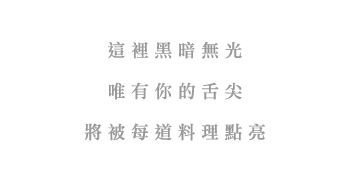
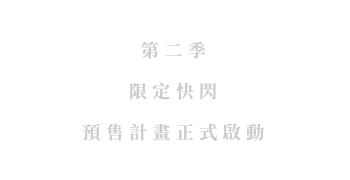
update route && fix

Changed region(s): [[0.2292, 0.6667, 0.7736, 0.7778], [0.3152, 0.2222, 0.6877, 0.3333], [0.3152, 0.4444, 0.6877, 0.5556]]

diff --git a/public/dark2/style/css/print.css b/public/dark2/style/css/print.css
@@ -6,6 +6,7 @@ a:hover { color: #cbcbcb; }
 .seasontwo img { width: 100%; }
 
 .main-logo { position: relative; }
+.main-logo img { max-width: 107px; }
 
 .main-slogan { padding-top: 15vh; }
 .main-slogan i { margin-top: 90px; color: #a47c52; font-size: 24px; opacity: 0; transition: all 0.5s; }
@@ -18,7 +19,7 @@ a:hover { color: #cbcbcb; }
 .rules-box p:nth-child(2) { margin-top: 45px; }
 
 .new-about { margin-top: 350px; color: #cbcbcb; opacity: 0; transition: 1s all; text-align: center; padding: 20px; }
-@media (max-width: 776px) { .new-about { margin-top: 150px; } }
+@media (max-width: 776px) { .new-about { margin-top: 150px; opacity: 1; } }
 .new-about p { font-size: 16px; line-height: 1.55em; letter-spacing: 1px; }
 .new-about h1 { font-size: 18px; letter-spacing: 2.5px; line-height: 1.55em; margin-bottom: 60px; }
 .new-about .pre-order-info { margin: auto; max-width: 880px; }
@@ -27,7 +28,9 @@ a:hover { color: #cbcbcb; }
 .new-about .progress-bar-box .bar-box { position: relative; height: 35px; }
 .new-about .progress-bar-box .bar-box:after, .new-about .progress-bar-box .bar-box:before { position: absolute; bottom: -45px; width: 120px; color: #cbcbcb; font-size: 14px; }
 .new-about .progress-bar-box .bar-box:after { content: "預售開始"; left: 0%; margin-left: -68px; }
+@media (max-width: 776px) { .new-about .progress-bar-box .bar-box:after { margin-left: -7px; text-align: left; } }
 .new-about .progress-bar-box .bar-box:before { content: '目標 3000張'; right: 0%; margin-right: -68px; }
+@media (max-width: 776px) { .new-about .progress-bar-box .bar-box:before { margin-right: -7px; text-align: right; } }
 .new-about .progress-bar-box .bar { position: absolute; top: 0; left: 0; height: 100%; width: 45%; background: #a47c52; }
 .new-about .info-box { margin-top: 120px; text-align: center; padding-bottom: 120px; }
 .new-about .info-box h1 { color: #cbcbcb; margin-bottom: 25px; font-size: 18px; }
@@ -54,6 +57,8 @@ a:hover { color: #cbcbcb; }
 .timeline .important p, .timeline .important .date { color: #cbcbcb; }
 
 .mask-box { position: absolute; top: 0; left: 0; height: 100vh; width: 100%; z-index: 1001; }
+@media (max-width: 776px) { .mask-box { overflow: auto; } }
+.mask-box .fa-angle-down { cursor: pointer; }
 
 .active .new-about { opacity: 1; }
 .active .mask-box { overflow: auto; padding-bottom: 5px; }
@@ -82,10 +87,15 @@ a:hover { color: #cbcbcb; }
 .strong-words { color: #a47c52; }
 
 .pre-order-section { text-align: center; color: #cbcbcb; }
+@media (max-width: 776px) { .pre-order-section { padding-top: 45px; } }
+.pre-order-section h4 { margin: 65px auto 45px; }
 .pre-order-section p { line-height: 1.75em; letter-spacing: 1px; }
 .pre-order-section .pre-order-box { max-width: 720px; margin: 45px auto; }
 @media (max-width: 776px) { .pre-order-section .pre-order-box { margin-bottom: 0px; } }
+.pre-order-section .food-box { max-width: 1080px; }
 @media (max-width: 776px) { .pre-order-section .row { padding: 25px; } }
+.pre-order-section .row .col-md-4 { margin: 20px auto; }
+.pre-order-section .row .col-md-6 { margin: 20px auto; }
 .pre-order-section .row .col-md-6 > a div { position: relative; }
 .pre-order-section .row .col-md-6 > a div > img { filter: brightness(100%); transition: 0.5s all; }
 .pre-order-section .row .col-md-6 > a div > img:hover { filter: brightness(85%); }

diff --git a/public/dark2/style/scss/_seasontwo.scss b/public/dark2/style/scss/_seasontwo.scss
@@ -22,6 +22,9 @@ a{
 
 .main-logo{
     position: relative;
+    img{
+        max-width: 107px;
+    }
 }
 
 .main-slogan{
@@ -66,6 +69,7 @@ a{
     
     @media(max-width:$xs){
         margin-top: 150px;
+        opacity: 1;
     }
     
     p{
@@ -109,13 +113,21 @@ a{
                 content: "預售開始";
                 left: 0%;
                 margin-left: -68px;
+
+                @media(max-width:$xs){
+                    margin-left: -7px;
+                    text-align: left;
+                }
             }
             
             &:before{
                 content: '目標 3000張';
                 right: 0%;
                 margin-right: -68px;
-                
+                @media(max-width:$xs){
+                    margin-right: -7px;
+                    text-align: right;
+                }
             }
         }
         
@@ -269,6 +281,13 @@ a{
     height: 100vh;
     width: 100%;
     z-index: 1001;
+    @media(max-width:$xs){
+        overflow: auto;
+    }
+    
+    .fa-angle-down{
+        cursor: pointer;
+    }
 }
 
 .active{
@@ -376,6 +395,14 @@ a{
     text-align: center;
     color: $font-color;
     
+    @media(max-width:$xs){
+        padding-top: 45px;
+    }
+    
+    h4{
+        margin: 65px auto 45px;
+    }
+    
     p{
         line-height: 1.75em;
         letter-spacing: 1px;
@@ -388,11 +415,21 @@ a{
             margin-bottom: 0px;
         }
     }
+    
+    .food-box {
+	    max-width: 1080px;
+    }
+    
     .row{
         @media(max-width:$xs){
             padding: 25px;
         }
+        
+        .col-md-4{
+            margin: 20px auto;
+        }
         .col-md-6{
+            margin: 20px auto;
             >a div{
                 position: relative;
              

diff --git a/public/dark2/js/main.js b/public/dark2/js/main.js
@@ -70,7 +70,13 @@ startValue = 1;
 // landing fn
 function ShowBg(){
     var i = startValue,
+        _w = $(window).width(),
         showItem = ".show-"+i;
+    
+    if(_w < 776 ){
+        i=5;
+    }
+    
     $(showItem).addClass('showup');
     startValue++;
     if (i>4){
@@ -93,7 +99,16 @@ $(document).ready(function(){
         $body.animate({
             scrollTop: $(wheretoGo).offset().top
         }, 700);
-    })
+    });
+    $('.mask-box .fa-angle-down').click(function(){
+        var wheretoGo = $('.new-about'),
+            $body = $('.mask-box');
+
+        $body.animate({
+            scrollTop: $(wheretoGo).offset().top - 80
+        }, 700);
+    });
+
 })
 
 
@@ -106,5 +121,13 @@ $(document).ready(function(){
         
         return false;
     });
-})
+});
 
+
+ (function(i,s,o,g,r,a,m){i['GoogleAnalyticsObject']=r;i[r]=i[r]||function(){
+  (i[r].q=i[r].q||[]).push(arguments)},i[r].l=1*new Date();a=s.createElement(o),
+  m=s.getElementsByTagName(o)[0];a.async=1;a.src=g;m.parentNode.insertBefore(a,m)
+  })(window,document,'script','https://www.google-analytics.com/analytics.js','ga');
+
+  ga('create', 'UA-75329055-2', 'auto');
+  ga('send', 'pageview');

diff --git a/resources/views/Dark2/frontend/_header.blade.php b/resources/views/Dark2/frontend/_header.blade.php
@@ -1,4 +1,4 @@
-    <title>Dinner In The Dark</title>
+    <title>Dining In The Dark 2</title>
     <meta charset="utf-8">
     <meta name="viewport" content="target-densitydpi=device-dpi; width=device-width; initial-scale=1.0; maximum-scale=1.0; user-scalable=0;">
     <link rel="stylesheet" href="/dark2/stylesheets/screen.css">
@@ -15,11 +15,11 @@
     <script src="/dark2/js/main.js"></script>
     <meta name="csrf-token" content="{{ csrf_token() }}">
     <link href='//fonts.googleapis.com/css?family=PT+Serif:400' rel='stylesheet' type='text/css'><script type="text/javascript">var _jf = _jf || [];_jf.push(['p','42509']);_jf.push(['_setFont','datm7','css','.datm7']);_jf.push(['_setFont','datm7','alias','datm7']);_jf.push(['_setFont','datm7','english','PT Serif']);_jf.push(['_setFont','datm7','weight',700]);(function(f,q,c,h,e,i,r,d){var k=f._jf;if(k.constructor===Object){return}var l,t=q.getElementsByTagName("html")[0],a=function(u){for(var v in k){if(k[v][0]==u){if(false===k[v][1].call(k)){break}}}},j=/\S+/g,o=/[\t\r\n\f]/g,b=/^[\s\uFEFF\xA0]+|[\s\uFEFF\xA0]+$/g,g="".trim,s=g&&!g.call("\uFEFF\xA0")?function(u){return u==null?"":g.call(u)}:function(u){return u==null?"":(u+"").replace(b,"")},m=function(y){var w,z,v,u,x=typeof y==="string"&&y;if(x){w=(y||"").match(j)||[];z=t[c]?(" "+t[c]+" ").replace(o," "):" ";if(z){u=0;while((v=w[u++])){if(z.indexOf(" "+v+" ")<0){z+=v+" "}}t[c]=s(z)}}},p=function(y){var w,z,v,u,x=arguments.length===0||typeof y==="string"&&y;if(x){w=(y||"").match(j)||[];z=t[c]?(" "+t[c]+" ").replace(o," "):"";if(z){u=0;while((v=w[u++])){while(z.indexOf(" "+v+" ")>=0){z=z.replace(" "+v+" "," ")}}t[c]=y?s(z):""}}},n;k.push(["_eventActived",function(){p(h);m(e)}]);k.push(["_eventInactived",function(){p(h);m(i)}]);k.addScript=n=function(u,A,w,C,E,B){E=E||function(){};B=B||function(){};var x=q.createElement("script"),z=q.getElementsByTagName("script")[0],v,y=false,D=function(){x.src="";x.onerror=x.onload=x.onreadystatechange=null;x.parentNode.removeChild(x);x=null;a("_eventInactived");B()};if(C){v=setTimeout(function(){D()},C)}x.type=A||"text/javascript";x.async=w;x.onload=x.onreadystatechange=function(G,F){if(!y&&(!x.readyState||/loaded|complete/.test(x.readyState))){y=true;if(C){clearTimeout(v)}x.src="";x.onerror=x.onload=x.onreadystatechange=null;x.parentNode.removeChild(x);x=null;if(!F){setTimeout(function(){E()},200)}}};x.onerror=function(H,G,F){if(C){clearTimeout(v)}D();return true};x.src=u;z.parentNode.insertBefore(x,z)};a("_eventPreload");m(h);n(r,"text/javascript",false,3000)})(this,this.document,"className","jf-loading","jf-active","jf-inactive","//d3gc6cgx8oosp4.cloudfront.net/js/stable/v/4.9.8/id/180297678342");</script>
-    <meta property="og:title" content="無光晚餐 DINING IN THE DARK" />
-    <meta property="og:description" content="這裡黑暗無光，唯有你的舌尖，將被每道料理點亮。" />
+    <meta property="og:title" content="無光晚餐2 DINING IN THE DARK 2" />
+    <meta property="og:description" content="第二季限定快閃，預售計畫正式啟動 這裏黑暗無光，唯有你的舌尖，將被每道料理點亮" />
     <meta property="og:url" content="https://{{ $_SERVER['HTTP_HOST'] }}{{ $_SERVER['REQUEST_URI'] }}" />
-    <meta property="og:site_name" content="無光晚餐 DINING IN THE DARK" />
+    <meta property="og:site_name" content="無光晚餐2 DINING IN THE DARK 2" />
     <meta property="og:image" content="https://www.surpriselab.com.tw/images/share.jpg" />
     <meta property="og:type" content="website" />
-    <meta name="description" content="這裡黑暗無光，唯有你的舌尖，將被每道料理點亮。">
+    <meta name="description" content="第二季限定快閃，預售計畫正式啟動 這裏黑暗無光，唯有你的舌尖，將被每道料理點亮">
     <meta name="keywords" content="無光晚餐、無光餐廳、約會餐廳、黑暗餐廳、黑暗體驗">

diff --git a/resources/views/Dark2/frontend/pre-order.blade.php b/resources/views/Dark2/frontend/pre-order.blade.php
@@ -46,10 +46,18 @@
             </div>
             <div class="season-two-about pre-order-section">
                 <p>
-                    選擇您想要預購的商品 ⬇
+                    請點選商品前往付款 ⬇
                 </p>
                 <div class="pre-order-box">
                     <div class="row">
+                        <div class="col-md-6">
+                            <a href="https://surpriselab.backme.tw/checkout/820/4380?locale=zh-TW">
+                                <div>
+                                    <img src="/dark2/images/Pre-sale/Button_4.png" alt="">    
+                                </div>
+                            </a>
+                            <p></p>
+                        </div>
                         <div class="col-md-6">
                             <a href="https://surpriselab.backme.tw/checkout/820/4386?locale=zh-TW">
                                 <div>
@@ -62,6 +70,14 @@
                             <p>
                                 剩餘 <span id="count_4386"></span> 份
                             </p>
+                        </div>
+                        <div class="col-md-6">
+                            <a href="https://surpriselab.backme.tw/checkout/820/4385?locale=zh-TW">
+                                <div>
+                                    <img src="/dark2/images/Pre-sale/Button_5.png" alt="">    
+                                </div>
+                            </a>
+                            <p></p>
                         </div>
                         <div class="col-md-6">
                             <a href="https://surpriselab.backme.tw/checkout/820/4387?locale=zh-TW">
@@ -89,24 +105,9 @@
                             <p>
                                 剩餘 <span id="count_4388"></span> 份
                             </p>
-
                         </div>
-                        <div class="col-md-6">
-                            <a href="https://surpriselab.backme.tw/checkout/820/4380?locale=zh-TW">
-                                <div>
-                                    <img src="/dark2/images/Pre-sale/Button_4.png" alt="">    
-                                </div>
-                            </a>
-                            <p></p>
-                        </div>
-                        <div class="col-md-6">
-                            <a href="https://surpriselab.backme.tw/checkout/820/4385?locale=zh-TW">
-                                <div>
-                                    <img src="/dark2/images/Pre-sale/Button_5.png" alt="">    
-                                </div>
-                            </a>
-                            <p></p>
-                        </div>
+                        
+                        
                     </div>    
                 </div>
                 <p>

diff --git a/app/Http/routes.php b/app/Http/routes.php
@@ -273,7 +273,7 @@ Route::group(['middleware' => ['web']], function () {
 
     // dark2
     Route::group(['prefix' => config('setting.dark2.path')], function(){
-        Route::get('about.html',function(){ return view('Dark2.frontend.about'); });
+        Route::get('about.html',function(){ return view('Dark2.frontend.home'); });
         Route::get('chef.html',function(){ return view('Dark2.frontend.chef'); });
         Route::get('rules.html',function(){ return view('Dark2.frontend.rules'); });
         Route::get('contact.html',function(){ return view('Dark2.frontend.contact'); });
@@ -288,8 +288,10 @@ Route::group(['middleware' => ['web']], function () {
         //Route::post('ReOrderData','FrontendController@ReOrderData');
         //Route::post('getPayDone','FrontendController@getPayDone');
         Route::get('pre-order.html',function(){ return view('Dark2.frontend.pre-order'); });
+        Route::get('exeprience.html',function(){ return view('Dark2.frontend.exeprience'); });
+        Route::get('food.html',function(){ return view('Dark2.frontend.food'); });
         Route::group(['prefix' => 'en'], function(){
-            Route::get('about.html',function(){ App::setLocale('en'); return view('Dark2.frontend.about'); });
+            Route::get('about.html',function(){ App::setLocale('en'); return view('Dark2.frontend.home'); });
             Route::get('chef.html',function(){ App::setLocale('en'); return view('Dark2.frontend.chef'); });
             Route::get('rules.html',function(){ App::setLocale('en'); return view('Dark2.frontend.rules'); });
             Route::get('contact.html',function(){ App::setLocale('en'); return view('Dark2.frontend.contact'); });
@@ -302,6 +304,8 @@ Route::group(['middleware' => ['web']], function () {
             //Route::get('event-landing.html',function(){ App::setLocale('en'); return view('frontend.event-landing'); });
             //Route::get('event_{page}.html',function(Request $request,$page){ return view('frontend.event-'.$page); });
             Route::get('pre-order.html',function(){ App::setLocale('en'); return view('Dark2.frontend.pre-order'); });
+            Route::get('exeprience.html',function(){ App::setLocale('en'); return view('Dark2.frontend.exeprience'); });
+            Route::get('food.html',function(){ App::setLocale('en'); return view('Dark2.frontend.food'); });
         });
 
         

diff --git a/resources/views/Dark2/frontend/_menu.blade.php b/resources/views/Dark2/frontend/_menu.blade.php
@@ -7,7 +7,7 @@
                 </a>
                 <a href="pre-order.html">
                     <li @if($key == 'pre-order')class="active"@endif>
-                        Pre-Order
+                        Pre-sale
                     </li>
                 </a>
                 <a href="rules.html">
@@ -22,15 +22,15 @@
                 </a>
                 <a href="contact.html">
                     <li @if($key == 'contact')class="active"@endif>
-                        contact
+                        Contact
                     </li>
                 </a>
             </ul>
             <ul class="social-list">
-                <a href="#">
+                <a href="https://www.facebook.com/surpriselabtw/">
                     <li><i class="fa fa-facebook"></i></li>
                 </a>
-                <a href="#">
+                <a href="https://www.instagram.com/surpriselabtw/">
                     <li><i class="fa fa-instagram"></i></li>
                 </a>
             </ul>

diff --git a/resources/views/Dark2/frontend/team.blade.php b/resources/views/Dark2/frontend/team.blade.php
@@ -6,13 +6,13 @@
     <div class="wrap">
        
         <!-- mobile menu -->
-        @include('Dark2.frontend._menu',['key'=>'team'])
+        @include('Dark2.frontend._menu',['key'=>'about'])
      
       
         <!-- header -->
         
         <div class="header-contaier clearfix">
-            @include('Dark2.frontend._m_menu',['key'=>'team'])
+            @include('Dark2.frontend._m_menu',['key'=>'about'])
         </div>
        
         <!-- landing cut -->

diff --git a/resources/views/Dark2/frontend/home.blade.php b/resources/views/Dark2/frontend/home.blade.php
@@ -158,7 +158,7 @@
                             </h1>
                             <ul class="timeline">
                                 <li class="important">
-                                    <div class="date">05/01</div>
+                                    <div class="date">05/04</div>
                                     <div class="dot"></div>
                                     <p>
                                         預售開始:目標預售 3000張

diff --git a/resources/views/Dark2/frontend/_m_menu.blade.php b/resources/views/Dark2/frontend/_m_menu.blade.php
@@ -21,7 +21,7 @@
                     </a>
                     <a href="pre-order.html">
                         <li @if($key == 'pre-order')class="active"@endif>
-                            Pre-Order
+                            Pre-sale
                         </li>
                     </a>
                     <a href="rules.html">

diff --git a/resources/views/Dark2/frontend/_footer.blade.php b/resources/views/Dark2/frontend/_footer.blade.php
@@ -20,7 +20,7 @@
                         <a href="#">
                             <li>Team</li>
                         </a>
-                        <a href="#">
+                        <a href="http://pse.im/5LS4G">
                             <li>Join Mailing List</li>
                         </a>
                     </ul>
